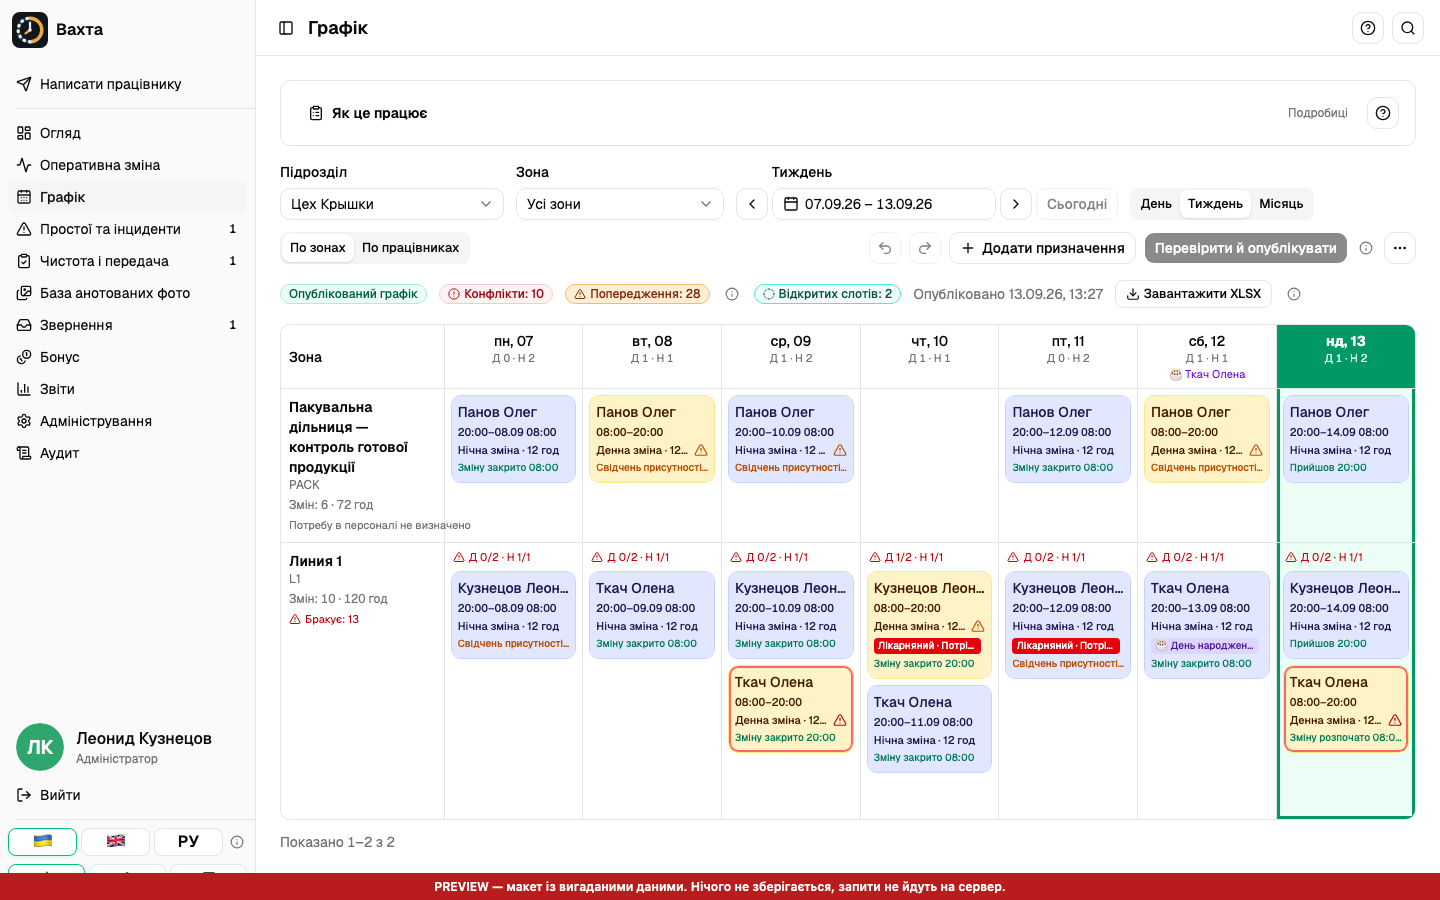
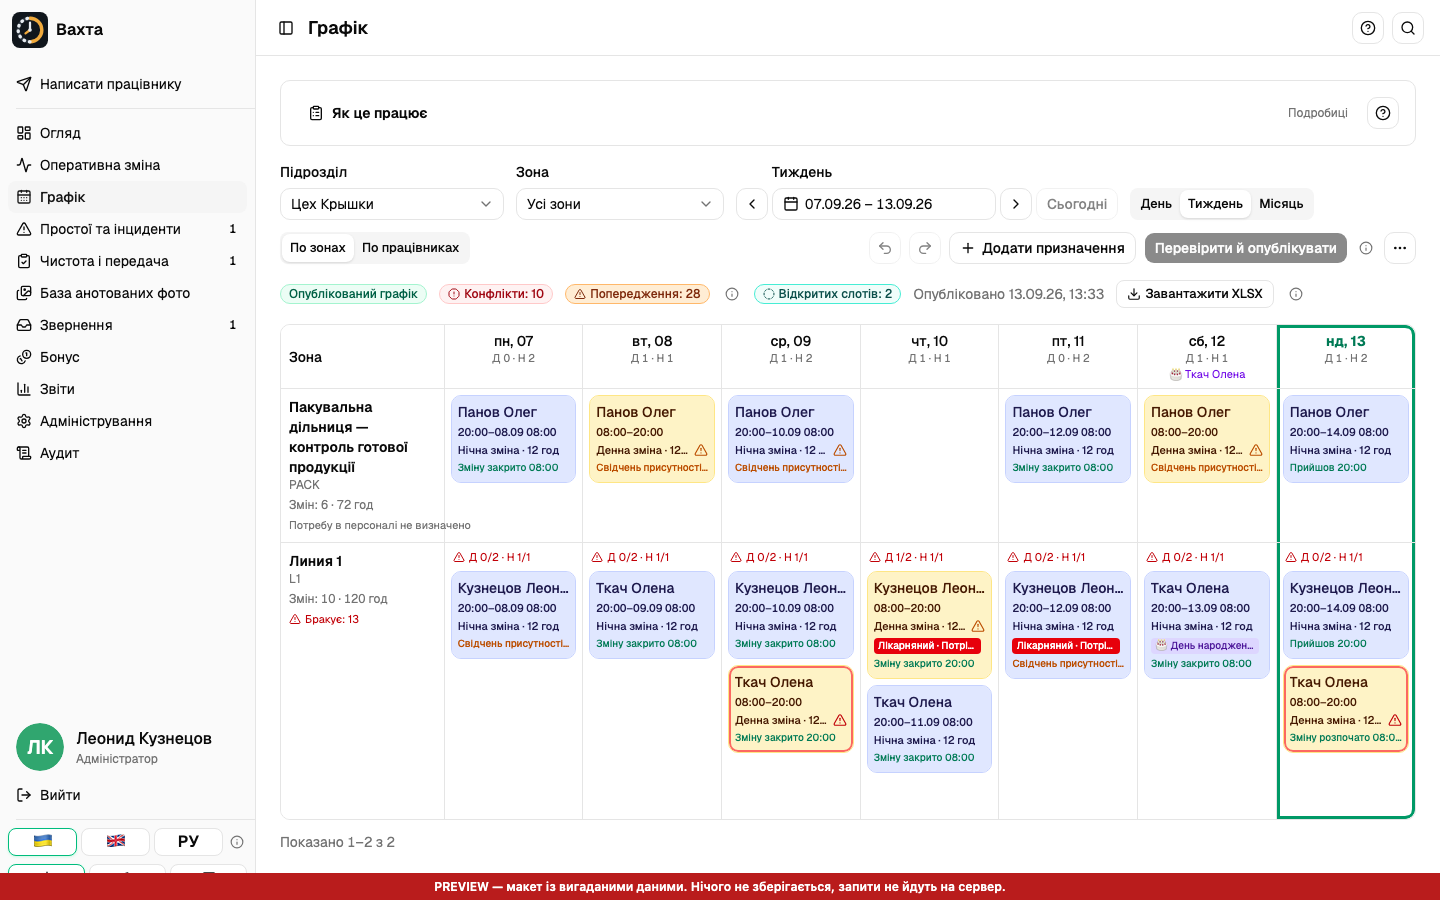
fix(schedule): today column as a bold green frame only, corners not clipped
The frame is drawn with inset shadows on the header and every cell of
the column (closed at the bottom) with no fills; the corner header and
cell take the container radius so the frame follows the curve.

Changed region(s): [[0.7812, 0.3111, 1.0, 0.4356]]

diff --git a/apps/admin-web/src/shared/ui/resource-calendar/resource-calendar.tsx b/apps/admin-web/src/shared/ui/resource-calendar/resource-calendar.tsx
@@ -283,7 +283,7 @@ export function ResourceCalendar(props: ResourceCalendarProps) {
                   'min-h-11 min-w-11 flex-1 flex-col gap-0 px-1 text-xs leading-tight',
                   date.today &&
                     selectedDate !== date.id &&
-                    'border-emerald-600 bg-emerald-600 font-bold text-white hover:bg-emerald-700 hover:text-white dark:border-emerald-500 dark:bg-emerald-500 dark:text-emerald-950',
+                    'border-2 border-emerald-600 font-bold text-emerald-700 dark:border-emerald-500 dark:text-emerald-300',
                 )}
                 onClick={() => onDate(date.id)}
               >
@@ -339,7 +339,7 @@ export function ResourceCalendar(props: ResourceCalendarProps) {
                 <TableHead className="sticky left-0 z-10 w-40 whitespace-normal bg-background">
                   {model.resourceLabel}
                 </TableHead>
-                {model.dates.map((date) => (
+                {model.dates.map((date, index) => (
                   <TableHead
                     key={date.id}
                     aria-current={date.today ? 'date' : undefined}
@@ -347,15 +347,20 @@ export function ResourceCalendar(props: ResourceCalendarProps) {
                     className={cn(
                       'w-34 whitespace-normal px-2 py-1.5 text-center align-top',
                       date.today &&
-                        'bg-emerald-600 text-white dark:bg-emerald-500 dark:text-emerald-950',
+                        'shadow-[inset_3px_0_0_var(--color-emerald-600),inset_-3px_0_0_var(--color-emerald-600),inset_0_3px_0_var(--color-emerald-600)] dark:shadow-[inset_3px_0_0_var(--color-emerald-500),inset_-3px_0_0_var(--color-emerald-500),inset_0_3px_0_var(--color-emerald-500)]',
                       date.readonly && 'bg-muted/40 text-muted-foreground',
                       date.holiday && 'bg-rose-50/70 dark:bg-rose-950/40',
+                      // The container clips at its rounded corners; give the corner cells the same
+                      // radius so a solid header or frame follows the curve instead of being cut.
+                      index === model.dates.length - 1 && 'rounded-tr-lg',
                     )}
                   >
                     <span
                       className={cn(
                         'block font-medium',
-                        date.today ? 'font-bold text-inherit' : 'text-foreground',
+                        date.today
+                          ? 'font-bold text-emerald-700 dark:text-emerald-300'
+                          : 'text-foreground',
                       )}
                     >
                       {date.label}
@@ -364,7 +369,7 @@ export function ResourceCalendar(props: ResourceCalendarProps) {
                       <span
                         className={cn(
                           'block text-[11px] font-normal tabular-nums',
-                          date.today ? 'text-inherit opacity-90' : 'text-muted-foreground',
+                          'text-muted-foreground',
                         )}
                       >
                         {date.summary}
@@ -374,7 +379,7 @@ export function ResourceCalendar(props: ResourceCalendarProps) {
                       <span
                         className={cn(
                           'block text-[11px] font-normal',
-                          date.today ? 'text-inherit' : 'text-rose-700 dark:text-rose-300',
+                          'text-rose-700 dark:text-rose-300',
                         )}
                       >
                         🎉 {date.holiday}
@@ -385,7 +390,7 @@ export function ResourceCalendar(props: ResourceCalendarProps) {
                         key={event}
                         className={cn(
                           'block text-[11px] font-normal [overflow-wrap:anywhere]',
-                          date.today ? 'text-inherit' : 'text-violet-700 dark:text-violet-300',
+                          'text-violet-700 dark:text-violet-300',
                         )}
                       >
                         {event}
@@ -415,10 +420,13 @@ export function ResourceCalendar(props: ResourceCalendarProps) {
                       key={cell.date}
                       className={cn(
                         'whitespace-normal p-1.5 align-top',
+                        rowIndex === rows.length - 1 &&
+                          index === row.cells.length - 1 &&
+                          'rounded-br-lg',
                         // Wall-calendar slider: a solid frame drawn with inset shadows, which
                         // neither the collapsed borders nor the rounded container can clip.
                         model.dates[index]?.today &&
-                          'bg-emerald-50 shadow-[inset_3px_0_0_var(--color-emerald-600),inset_-3px_0_0_var(--color-emerald-600)] dark:bg-emerald-950/40 dark:shadow-[inset_3px_0_0_var(--color-emerald-500),inset_-3px_0_0_var(--color-emerald-500)]',
+                          'shadow-[inset_3px_0_0_var(--color-emerald-600),inset_-3px_0_0_var(--color-emerald-600)] dark:shadow-[inset_3px_0_0_var(--color-emerald-500),inset_-3px_0_0_var(--color-emerald-500)]',
                         model.dates[index]?.today &&
                           rowIndex === rows.length - 1 &&
                           'shadow-[inset_3px_0_0_var(--color-emerald-600),inset_-3px_0_0_var(--color-emerald-600),inset_0_-3px_0_var(--color-emerald-600)] dark:shadow-[inset_3px_0_0_var(--color-emerald-500),inset_-3px_0_0_var(--color-emerald-500),inset_0_-3px_0_var(--color-emerald-500)]',
